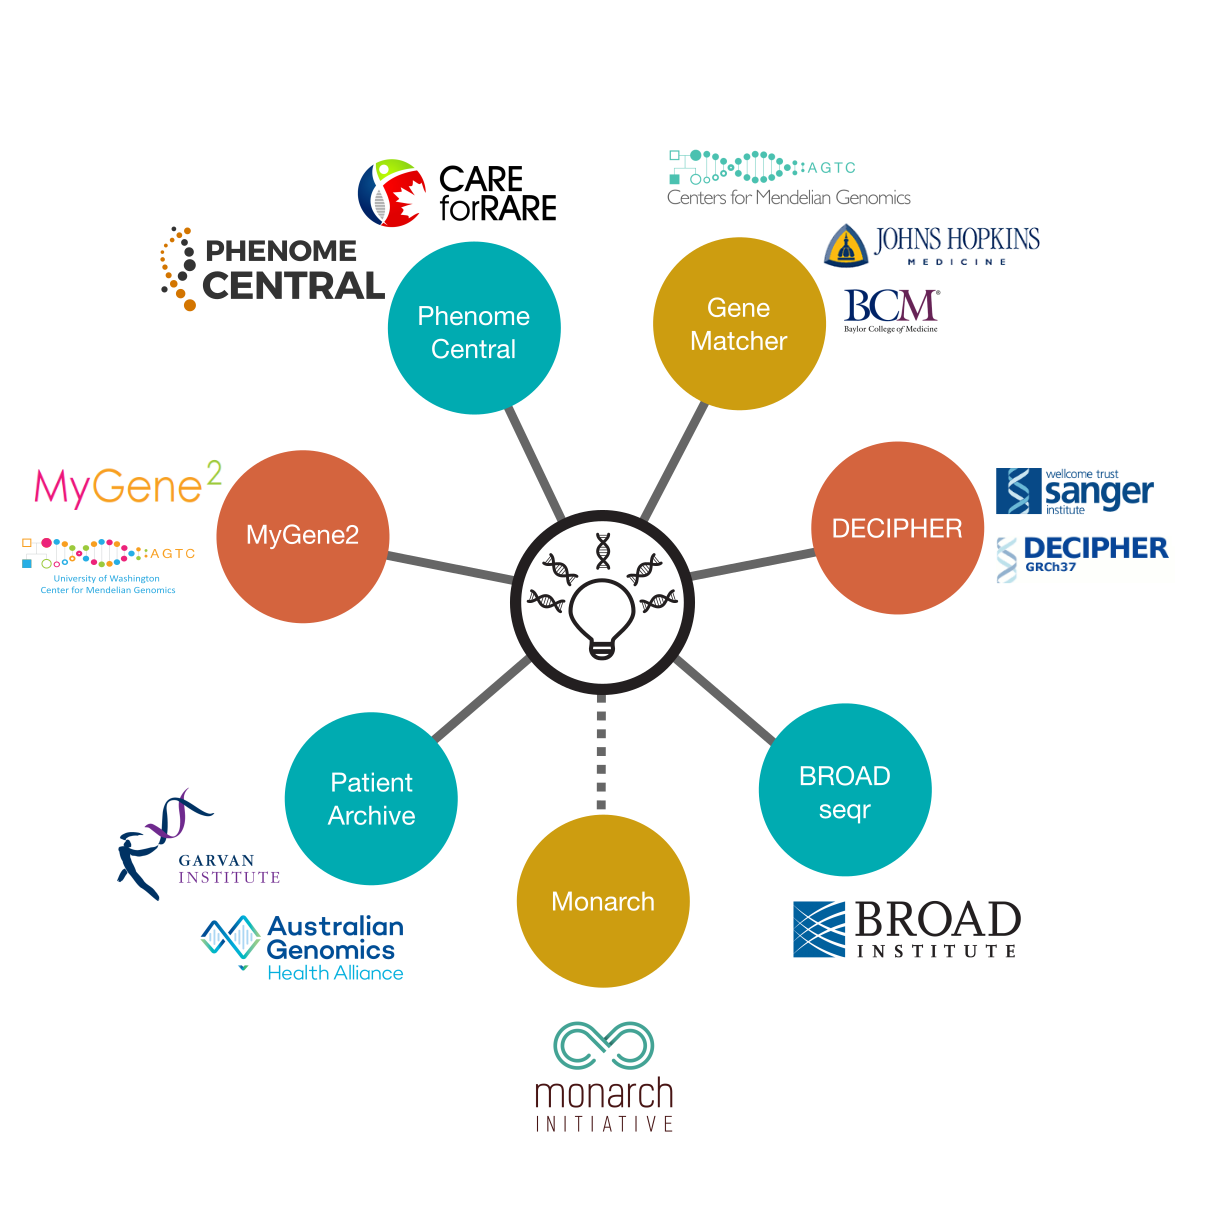
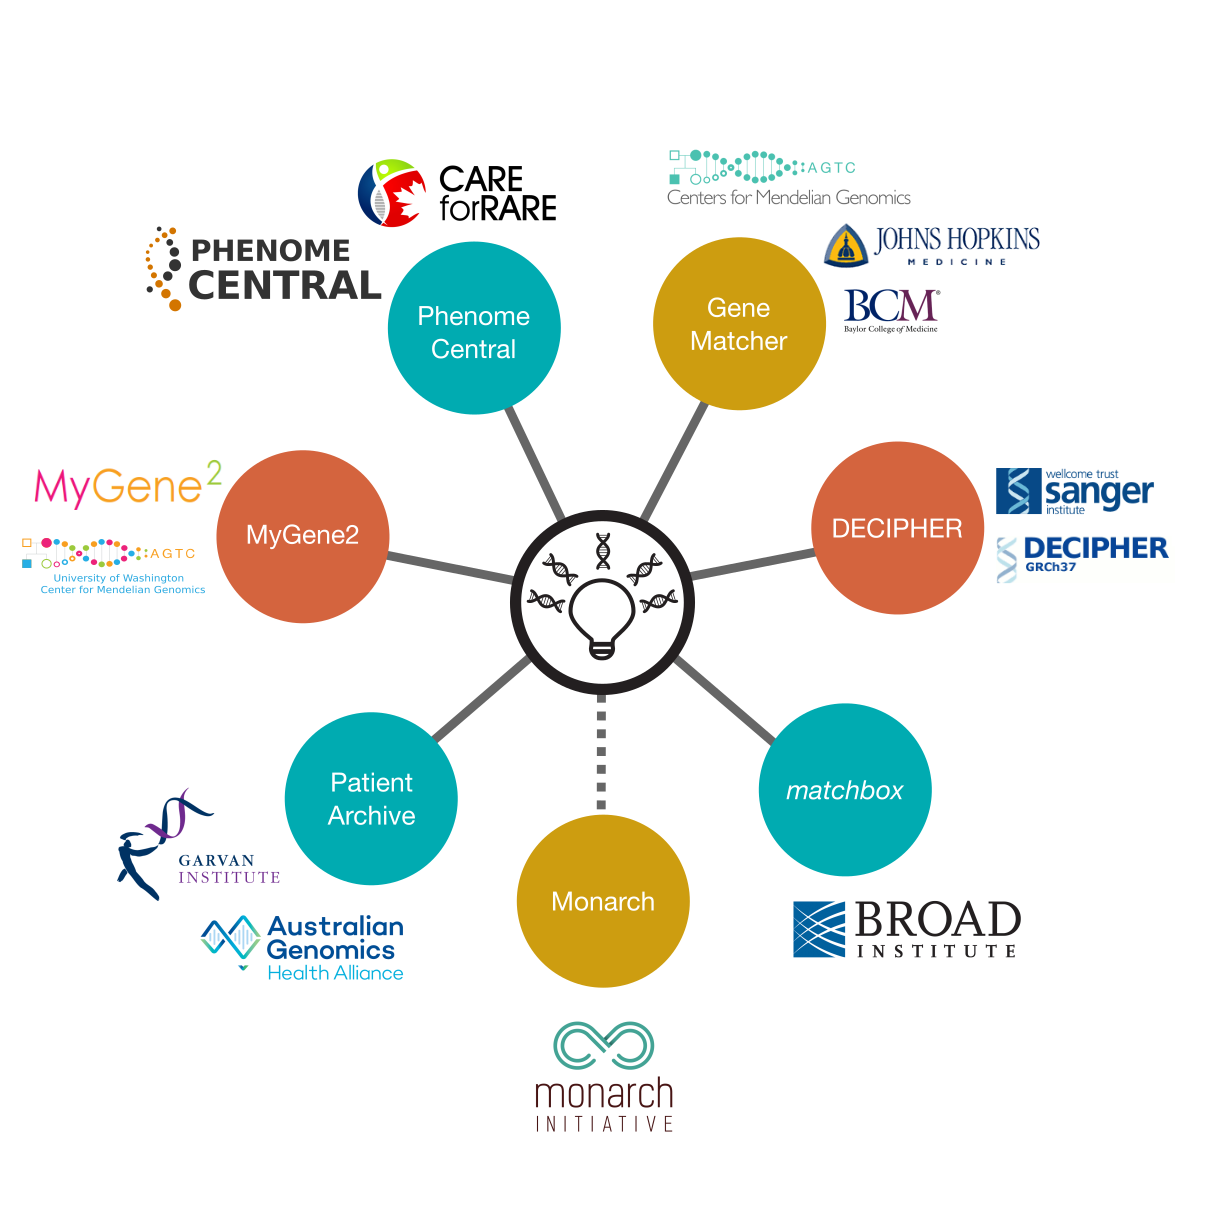
Issue #31: Update matchbox name

Changed region(s): [[0.1228, 0.1842, 0.3071, 0.2763], [0.6448, 0.6141, 0.7369, 0.6755], [0.0307, 0.4606, 0.1535, 0.4913]]

diff --git a/index.html b/index.html
@@ -47,12 +47,12 @@ footer_stripe: true
         <h2>Member Organizations</h2>
         The following organizations are full members of the Matchmaker Exchange:
         <ul>
-          <li><a href="https://seqr.broadinstitute.org/">Broad seqr</a></li>
+          <li><a href="https://mme.australiangenomics.org.au">AGHA Patient Archive</a></li>
           <li><a href="https://decipher.sanger.ac.uk">DECIPHER</a></li>
           <li><a href="https://genematcher.org/">GeneMatcher</a></li>
+          <li><a href="https://seqr.broadinstitute.org/"><i>matchbox</i></a></li>
           <li><a href="http://monarchinitiative.org/">Monarch Initiative</a></li>
           <li><a href="https://www.mygene2.org/">MyGene2</a></li>
-          <li><a href="https://mme.australiangenomics.org.au">Australian Genomics Health Alliance Patient Archive</a></li>
           <li><a href="https://phenomecentral.org/">PhenomeCentral</a></li>
         </ul>
       </div>

diff --git a/steering_committee.html b/steering_committee.html
@@ -35,7 +35,7 @@ title: Matchmaker Exchange Steering Committee
         <dt class="service">IRDiRC</dt>
         <dd class="representative"><a href="http://www.cheori.org/en/researchers?id=73" target="_blank">Kym Boycott, MD, PhD</a></dd>
 
-        <dt class="service">matchbox</dt>
+        <dt class="service"><i>matchbox</i></dt>
         <dd class="representative"><a href="https://www.broadinstitute.org/bios/anthony-philippakis-0/" target="_blank">Anthony Philippakis, MD, PhD</a></dd>
 
         <dt class="service">MyGene2</dt>
